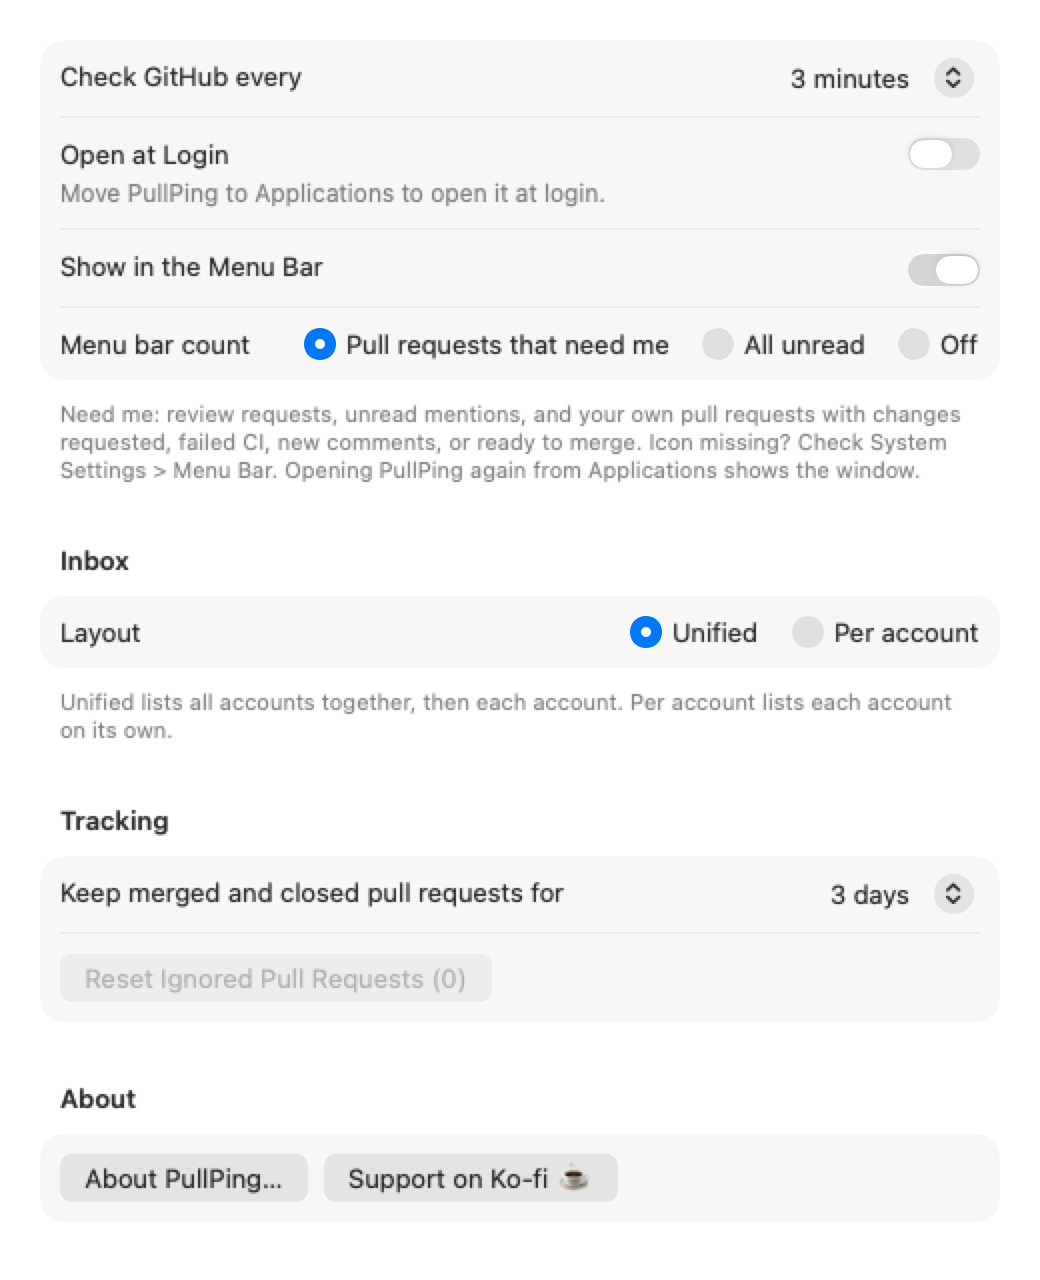
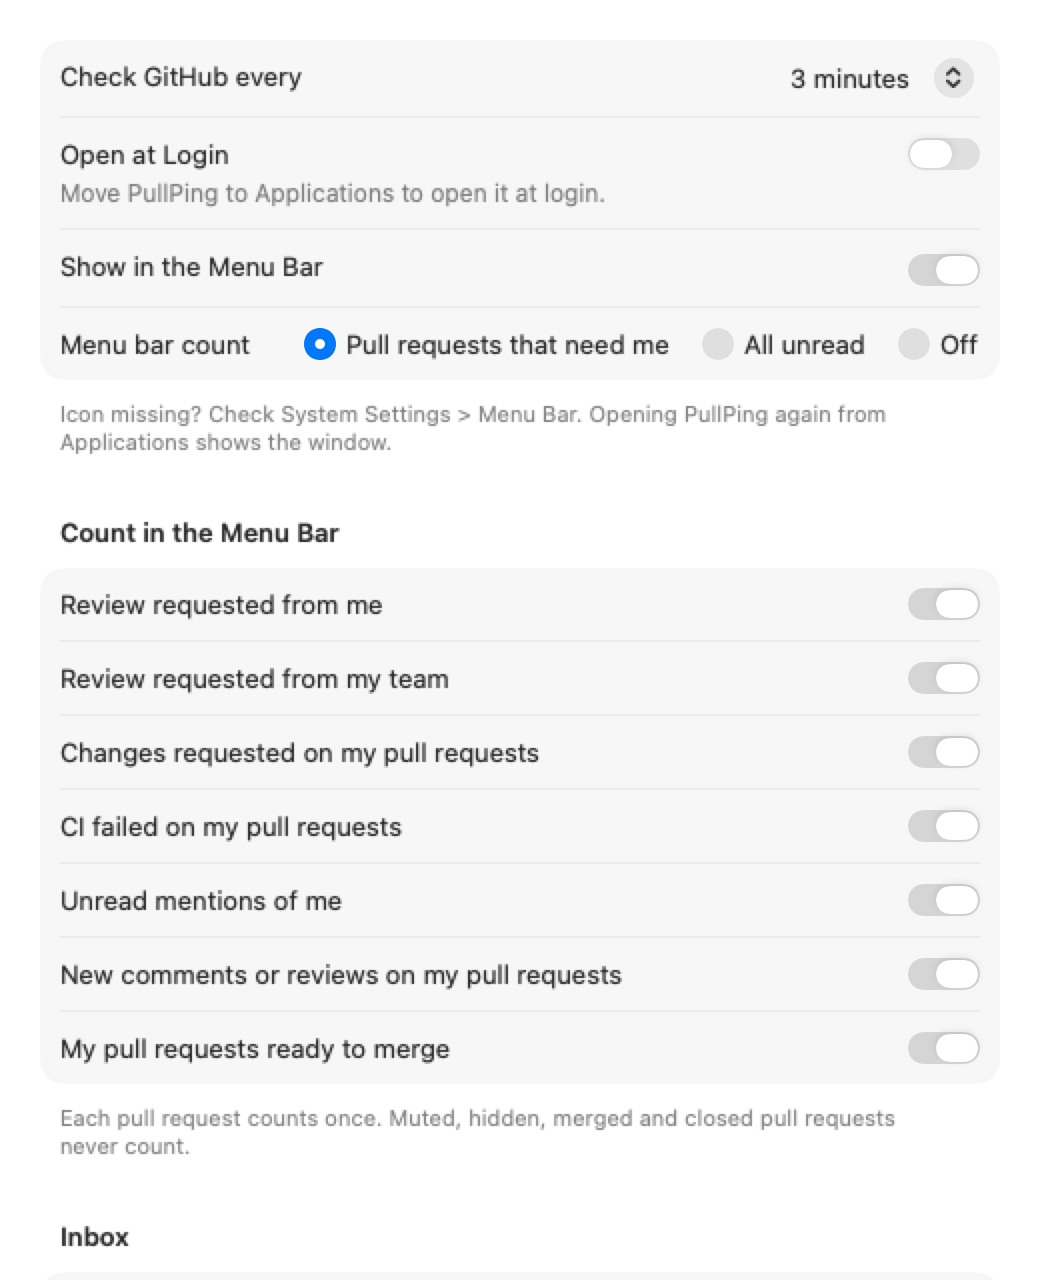
0.1.2: account names, menu-bar count settings, More menu, empty-window fix
- Account display names everywhere (switch, chips, panels, sidebar, phone)
- Settings > General > Count in the Menu Bar: a switch per reason; team review split out
- Panel menu button is More (ellipsis), same items as the right-click menu
- Fix: empty "PullPing Settings" window after closing Settings or reopening
- Fix: panel header overflow with long account names

Claude-Session: https://claude.ai/code/session_014uzkEWtF3b6UwepaCUwZvp

diff --git a/Sources/PullPingCore/Attention.swift b/Sources/PullPingCore/Attention.swift
@@ -4,9 +4,9 @@ import Foundation
 public enum PRGroup: String, Sendable, CaseIterable { case mine, toReview, involved }
 
 /// Why a pull request needs me, in breakdown order; the raw value is the breakdown wording.
-public enum NeedReason: String, Sendable, CaseIterable {
-    case toReview = "to review", changesRequested = "changes requested", ciFailed = "CI failed", mentioned
-    case newComments = "with new comments", readyToMerge = "ready to merge"
+public enum NeedReason: String, Codable, Sendable, CaseIterable {
+    case toReview = "to review", teamToReview = "team review", changesRequested = "changes requested", ciFailed = "CI failed"
+    case mentioned, newComments = "with new comments", readyToMerge = "ready to merge"
 }
 
 public enum Attention {
@@ -23,37 +23,44 @@ public enum Attention {
         !pr.muted && !pr.hidden && (unread(pr) > 0 || awaitingMyReview(pr))
     }
 
-    /// Open, shown, unmuted, and: my review is awaited, an unread mention, or I'm the author and it has changes requested,
-    /// failed CI, unread comments or reviews, or is ready to merge. The first match wins, so each counts once.
-    public static func needReason(_ pr: TrackedPR) -> NeedReason? {
+    /// Open, shown, unmuted, and: my review is awaited (directly or via a team), an unread mention, or I'm the author and it
+    /// has changes requested, failed CI, unread comments or reviews, or is ready to merge. Only reasons in `counting`
+    /// (Settings > General) apply; the first match wins, so each pull request counts once.
+    public static func needReason(_ pr: TrackedPR, counting: Set<NeedReason> = Set(NeedReason.allCases)) -> NeedReason? {
         guard pr.state == .open, !pr.muted, !pr.hidden else { return nil }
         let unread = pr.events.filter { !$0.isOwn && $0.at > (pr.lastReadAt ?? .distantPast) }
-        let mine = pr.roles.contains(.author)
-        if awaitingMyReview(pr) { return .toReview }
-        if mine && pr.reviewDecision == "CHANGES_REQUESTED" { return .changesRequested }
-        if mine && pr.ci == .failure { return .ciFailed }
-        if unread.contains(where: { $0.kind == .mentioned }) { return .mentioned }
+        let mine = pr.roles.contains(.author), reviewable = !pr.isDraft
         let talk: Set<EventKind> = [.comment, .reviewApproved, .reviewChangesRequested, .reviewCommented]
-        if mine && unread.contains(where: { talk.contains($0.kind) }) { return .newComments }
-        if mine && pr.reviewDecision == "APPROVED" && pr.ci == .success && pr.mergeState == "CLEAN" { return .readyToMerge }
-        return nil
+        let checks: [(NeedReason, Bool)] = [
+            (.toReview, reviewable && pr.roles.contains(.reviewRequested)),
+            (.teamToReview, reviewable && pr.roles.contains(.teamReviewRequested)),
+            (.changesRequested, mine && pr.reviewDecision == "CHANGES_REQUESTED"),
+            (.ciFailed, mine && pr.ci == .failure),
+            (.mentioned, unread.contains { $0.kind == .mentioned }),
+            (.newComments, mine && unread.contains { talk.contains($0.kind) }),
+            (.readyToMerge, mine && pr.reviewDecision == "APPROVED" && pr.ci == .success && pr.mergeState == "CLEAN"),
+        ]
+        return checks.first { counting.contains($0.0) && $0.1 }?.0
     }
 
-    public static func needsMe(_ pr: TrackedPR) -> Bool { needReason(pr) != nil }
+    public static func needsMe(_ pr: TrackedPR, counting: Set<NeedReason> = Set(NeedReason.allCases)) -> Bool {
+        needReason(pr, counting: counting) != nil
+    }
 
     /// "2 to review · 1 ready to merge"; empty when nothing needs me.
-    public static func breakdown(_ prs: [TrackedPR]) -> String {
-        let reasons = prs.compactMap(needReason)
+    public static func breakdown(_ prs: [TrackedPR], counting: Set<NeedReason> = Set(NeedReason.allCases)) -> String {
+        let reasons = prs.compactMap { needReason($0, counting: counting) }
         return NeedReason.allCases.compactMap { reason in
             let count = reasons.filter { $0 == reason }.count
             return count > 0 ? "\(count) \(reason.rawValue)" : nil
         }.joined(separator: " · ")
     }
 
-    public static func badgeCount(_ prs: [TrackedPR], enabledAccounts: Set<UUID>, mode: BadgeMode = .allUnread) -> Int {
+    public static func badgeCount(_ prs: [TrackedPR], enabledAccounts: Set<UUID>, mode: BadgeMode = .allUnread,
+                                  counting: Set<NeedReason> = Set(NeedReason.allCases)) -> Int {
         let prs = prs.filter { enabledAccounts.contains($0.accountID) }
         switch mode {
-        case .needsMe: return prs.filter(needsMe).count
+        case .needsMe: return prs.filter { needsMe($0, counting: counting) }.count
         case .allUnread: return prs.filter(isAttention).count
         case .off: return 0
         }

diff --git a/Sources/PullPing/StatusPanelView.swift b/Sources/PullPing/StatusPanelView.swift
@@ -55,12 +55,11 @@ struct StatusPanelView: View {
             }
             HStack(spacing: 8) {
                 if store.accounts.count > 1 {
-                    Picker("Account", selection: Binding(get: { scope.key }, set: { account = $0 })) {
-                        if store.settings.inboxLayout == .unified { Text(segment("All", .all)).tag("") }
-                        ForEach(store.accounts) { Text(segment("@\($0.login)", .account($0.id))).tag($0.id.uuidString) }
+                    // Segments while they fit the 380 pt panel; a menu once names get long (no header overflow).
+                    ViewThatFits(in: .horizontal) {
+                        scopePicker(scope).pickerStyle(.segmented)
+                        scopePicker(scope).pickerStyle(.menu).fixedSize()
                     }
-                    .pickerStyle(.segmented)
-                    .labelsHidden()
                 }
                 Spacer(minLength: 0)
                 Menu {  // a Menu, not a menu Picker: that one is as wide as its longest item
@@ -80,7 +79,15 @@ struct StatusPanelView: View {
         .padding(12)
     }
 
-    /// "@dana 2": the count uses the menu-bar measure.
+    private func scopePicker(_ scope: Scope) -> some View {
+        Picker("Account", selection: Binding(get: { scope.key }, set: { account = $0 })) {
+            if store.settings.inboxLayout == .unified { Text(segment("All", .all)).tag("") }
+            ForEach(store.accounts) { Text(segment($0.displayName, .account($0.id))).tag($0.id.uuidString) }
+        }
+        .labelsHidden()
+    }
+
+    /// "Work 2": the count uses the menu-bar measure.
     private func segment(_ name: String, _ scope: Scope) -> String {
         let count = store.count(scope)
         return count > 0 ? "\(name) \(count)" : name
@@ -97,18 +104,30 @@ struct StatusPanelView: View {
             Button("Mark All as Read") { store.markAllRead() }
             Button("Dismiss All Notifications") { NotificationPanels.shared.dismissAll() }
             Divider()
+            // Same items as the right-click menu (StatusItem), so both menus match.
+            Menu("Pause Notifications") {
+                ForEach([("1 Hour", Snooze.hour1), ("3 Hours", .hours3), ("Until Tomorrow 9:00", .tomorrow)], id: \.0) { title, option in
+                    Button(title) { store.pause(until: option.until(from: Date())) }
+                }
+                Divider()
+                Button("Resume") { store.pause(until: nil) }.disabled(!store.settings.isPaused(Date()))
+            }
+            if store.settings.isPaused(Date()), let until = store.settings.pausedUntil {
+                Text("Paused until \(until.formatted(date: .omitted, time: .shortened))")
+            }
+            Divider()
             Button("Settings…") { SettingsWindow.shared.show() }.keyboardShortcut(",")
             Button("About PullPing") { AboutWindow.show() }
             Button("Support on Ko-fi ☕") { NSWorkspace.shared.open(AboutInfo.kofi) }
             Divider()
             Button("Quit PullPing") { NSApp.terminate(nil) }.keyboardShortcut("q")
         } label: {
-            Label("More", systemImage: "gearshape").labelStyle(.iconOnly)
+            Label("More", systemImage: "ellipsis.circle").labelStyle(.iconOnly)  // a menu, not Settings: no gear (SYM-2)
         }
         .menuStyle(.borderlessButton)
         .menuIndicator(.hidden)
         .fixedSize()
-        .help("Settings, About and Quit")
+        .help("More: Open Window, Pause Notifications, Settings, Quit")
     }
 
     @ViewBuilder private func content(_ scope: Scope) -> some View {

diff --git a/Sources/PullPing/Store.swift b/Sources/PullPing/Store.swift
@@ -210,9 +210,9 @@ final class Store {
     }
 
     /// The menu-bar number (Settings > General > Menu bar count).
-    var badgeCount: Int { Attention.badgeCount(Array(tracked.prs.values), enabledAccounts: enabledIDs, mode: settings.badgeMode) }
+    var badgeCount: Int { Attention.badgeCount(Array(tracked.prs.values), enabledAccounts: enabledIDs, mode: settings.badgeMode, counting: settings.badgeReasons) }
     /// "2 to review · 1 ready to merge": status panel header and the status item's label.
-    var breakdown: String { Attention.breakdown(prs) }
+    var breakdown: String { Attention.breakdown(prs, counting: settings.badgeReasons) }
     var isPaused: Bool { settings.isPaused(now) }
 
     func prs(_ scope: Scope, _ filter: Filter) -> [TrackedPR] { prs.filter { scope.matches($0) && filter.matches($0) } }
@@ -221,7 +221,7 @@ final class Store {
     func count(_ scope: Scope, _ filter: Filter = .all) -> Int {
         let enabled = enabledIDs, needsMe = settings.badgeMode == .needsMe
         return tracked.prs.values.filter {
-            enabled.contains($0.accountID) && scope.matches($0) && filter.matches($0) && (needsMe ? Attention.needsMe($0) : Attention.isAttention($0))
+            enabled.contains($0.accountID) && scope.matches($0) && filter.matches($0) && (needsMe ? Attention.needsMe($0, counting: settings.badgeReasons) : Attention.isAttention($0))
         }.count
     }
 
@@ -248,7 +248,7 @@ final class Store {
     var firstSync: [Account] { accounts.filter { $0.enabled && tracked.lastPollAt[$0.id] == nil } }
 
     func account(_ id: UUID) -> Account? { accounts.first { $0.id == id } }
-    func login(for pr: TrackedPR) -> String? { multiAccount ? account(pr.accountID).map { "@\($0.login)" } : nil }
+    func login(for pr: TrackedPR) -> String? { multiAccount ? account(pr.accountID).map(\.displayName) : nil }
 
     /// Status item accessibility label and tooltip (MBX-6): what the count means, and Pause.
     var menuBarLabel: String {
@@ -338,7 +338,8 @@ final class Store {
             guard let pr = tracked.prs[event.prID], enabledIDs.contains(pr.accountID), settings.pushesToPhone(event, pr: pr, now: now) else { continue }
             let message = Ntfy.Message(
                 title: "\(event.kind.label): \(pr.repo) #\(pr.number)",
-                body: pr.title + "\n" + (event.summary.isEmpty ? event.line : "\(event.actor): \(event.summary)"),
+                body: pr.title + "\n" + (event.summary.isEmpty ? event.line : "\(event.actor): \(event.summary)")
+                    + (login(for: pr).map { "\nAccount: \($0)" } ?? ""),
                 priority: settings.style(for: event.kind, mine: pr.roles.contains(.author)) == .alert ? 4 : 3,
                 tags: [event.kind.rawValue], click: pr.url, flow: "pr-event")
             Task { _ = await Ntfy.send(message, config: config, transport: URLSessionTransport()) }

diff --git a/Sources/PullPing/SettingsViews.swift b/Sources/PullPing/SettingsViews.swift
@@ -40,7 +40,7 @@ struct AccountsTab: View {
         }
         .formStyle(.grouped)
         .sheet(isPresented: $adding) { AddAccountSheet(store: store) }
-        .confirmationDialog(removing.map { "Remove @\($0.login)?" } ?? "", isPresented: Binding(get: { removing != nil }, set: { if !$0 { removing = nil } })) {
+        .confirmationDialog(removing.map { "Remove \($0.displayName)?" } ?? "", isPresented: Binding(get: { removing != nil }, set: { if !$0 { removing = nil } })) {
             Button("Remove", role: .destructive) { if let removing { store.removeAccount(removing.id) } }
             Button("Cancel", role: .cancel) {}
         } message: {
@@ -401,7 +401,22 @@ struct GeneralTab: View {
                 }
                 .pickerStyle(.radioGroup)
             } footer: {
-                Text("Need me: review requests, unread mentions, and your own pull requests with changes requested, failed CI, new comments, or ready to merge. Icon missing? Check System Settings > Menu Bar. Opening PullPing again from Applications shows the window.").formFooter()
+                Text("Icon missing? Check System Settings > Menu Bar. Opening PullPing again from Applications shows the window.").formFooter()
+            }
+            if store.settings.badgeMode == .needsMe {
+                Section {
+                    ForEach(NeedReason.allCases, id: \.self) { reason in
+                        Toggle(reason.settingsLabel, isOn: Binding(
+                            get: { store.settings.badgeReasons.contains(reason) },
+                            set: { on in
+                                if on { store.settings.badgeReasons.insert(reason) } else { store.settings.badgeReasons.remove(reason) }
+                            }))
+                    }
+                } header: {
+                    Text("Count in the Menu Bar")
+                } footer: {
+                    Text("Each pull request counts once. Muted, hidden, merged and closed pull requests never count.").formFooter()
+                }
             }
             Section {
                 Picker("Layout", selection: $store.settings.inboxLayout) {
@@ -430,5 +445,20 @@ struct GeneralTab: View {
             }
         }
         .formStyle(.grouped)
+    }
+}
+
+extension NeedReason {
+    /// Settings > General > Count in the Menu Bar.
+    var settingsLabel: String {
+        switch self {
+        case .toReview: "Review requested from me"
+        case .teamToReview: "Review requested from my team"
+        case .changesRequested: "Changes requested on my pull requests"
+        case .ciFailed: "CI failed on my pull requests"
+        case .mentioned: "Unread mentions of me"
+        case .newComments: "New comments or reviews on my pull requests"
+        case .readyToMerge: "My pull requests ready to merge"
+        }
     }
 }

diff --git a/Sources/PullPing/MainView.swift b/Sources/PullPing/MainView.swift
@@ -64,7 +64,7 @@ struct SidebarView: View {
     private func header(_ account: Account) -> some View {
         HStack(spacing: 6) {
             Avatar(url: account.avatarURL)
-            Text(verbatim: "@\(account.login)")
+            Text(verbatim: account.displayName)
             Spacer(minLength: 0)
             if let status = store.statuses[account.id], status.isError {
                 Image(systemName: "exclamationmark.triangle").foregroundStyle(Theme.bad)
@@ -154,7 +154,7 @@ struct AccountErrorRow: View {
     var body: some View {
         HStack {
             Label {
-                Text(verbatim: "@\(account.login): \(status.word)").lineLimit(2)
+                Text(verbatim: "\(account.displayName): \(status.word)").lineLimit(2)
             } icon: {
                 Image(systemName: "exclamationmark.triangle.fill").foregroundStyle(Theme.bad)
             }
@@ -180,7 +180,7 @@ struct EmptyState: View {
                 Button("Add Account…") { SettingsWindow.shared.show(tab: "Accounts") }
             }
         } else if let first = store.firstSync.first {
-            ProgressView { Text(verbatim: "Syncing @\(first.login)…") }
+            ProgressView { Text(verbatim: "Syncing \(first.displayName)…") }
         } else if filter == .all || filter == .inbox {
             ContentUnavailableView("No Pull Requests", systemImage: "arrow.triangle.pull",
                                    description: Text("Pull requests you open, review or comment on appear here."))

diff --git a/Tests/PullPingCoreTests/AttentionTests.swift b/Tests/PullPingCoreTests/AttentionTests.swift
@@ -55,6 +55,8 @@ final class AttentionTests: XCTestCase {
     func testNeedsMeAndBreakdown() {
         var review = pr("R", roles: [.reviewRequested])
         XCTAssertEqual(Attention.needReason(review), .toReview)
+        XCTAssertNil(Attention.needReason(review, counting: [.ciFailed]))  // reason switched off in Settings
+        XCTAssertEqual(Attention.needReason(pr("T", roles: [.teamReviewRequested])), .teamToReview)
         review.isDraft = true
         XCTAssertNil(Attention.needReason(review))
 
@@ -89,10 +91,10 @@ final class AttentionTests: XCTestCase {
         hidden.hidden = true
         muted.muted = true
         merged.state = .merged
-        XCTAssertFalse([hidden, muted, merged].contains(where: Attention.needsMe))
+        XCTAssertFalse([hidden, muted, merged].contains { Attention.needsMe($0) })
 
         let review2 = pr("R2", roles: [.teamReviewRequested])
-        XCTAssertEqual(Attention.breakdown([pr("R", roles: [.reviewRequested]), review2, changes, ready, hidden]), "2 to review · 1 changes requested")
+        XCTAssertEqual(Attention.breakdown([pr("R", roles: [.reviewRequested]), review2, changes, ready, hidden]), "1 to review · 1 team review · 1 changes requested")
         XCTAssertEqual(Attention.breakdown([]), "")
     }
 

diff --git a/Sources/PullPing/PullPingApp.swift b/Sources/PullPing/PullPingApp.swift
@@ -20,8 +20,9 @@ struct PullPingApp: App {
     }
 
     var body: some Scene {
-        // The status item is AppKit (`StatusItem`); this never-opened scene only carries the main menu commands.
-        Settings { EmptyView() }
+        // The status item is AppKit (`StatusItem`); this never-inserted scene only carries the main menu commands.
+        // Not a `Settings` scene: SwiftUI opens that one as an empty "PullPing Settings" window on reopen.
+        MenuBarExtra("PullPing", isInserted: .constant(false)) { EmptyView() }
             .commands { AppCommands(store: store) }
     }
 }
@@ -63,7 +64,7 @@ final class AppDelegate: NSObject, NSApplicationDelegate {
     /// Opening PullPing again (Finder, Raycast) shows the main window: the way in when the icon is hidden (MBX-8).
     @MainActor func applicationShouldHandleReopen(_ sender: NSApplication, hasVisibleWindows flag: Bool) -> Bool {
         if !flag { MainWindow.shared.show() }
-        return true
+        return false  // handled; `true` lets SwiftUI open a window of its own
     }
 
     @MainActor func applicationWillTerminate(_ notification: Notification) {

diff --git a/Sources/PullPingCore/Settings.swift b/Sources/PullPingCore/Settings.swift
@@ -36,6 +36,8 @@ public struct AppSettings: Codable, Sendable, Equatable {
     public var otherStyles = AppSettings.defaultOtherStyles
     public var inboxLayout = InboxLayout.unified
     public var badgeMode = BadgeMode.needsMe
+    /// What "Pull requests that need me" counts (Settings > General); all reasons by default.
+    public var badgeReasons = Set(NeedReason.allCases)
     /// Panels, phone pushes and reminders stay quiet until then.
     public var pausedUntil: Date?
     /// ntfy server and topic; the access token and the fallback topic URL live in the keychain.
@@ -63,6 +65,7 @@ public struct AppSettings: Codable, Sendable, Equatable {
         otherStyles = try value(.otherStyles, otherStyles)
         inboxLayout = try value(.inboxLayout, inboxLayout)
         badgeMode = try value(.badgeMode, badgeMode)
+        badgeReasons = try value(.badgeReasons, badgeReasons)
         pausedUntil = try c.decodeIfPresent(Date.self, forKey: .pausedUntil)
         ntfyServer = try value(.ntfyServer, ntfyServer)
         ntfyTopic = try value(.ntfyTopic, ntfyTopic)

diff --git a/Sources/PullPingCore/Models.swift b/Sources/PullPingCore/Models.swift
@@ -20,6 +20,9 @@ public struct Account: Identifiable, Codable, Sendable, Equatable {
         self.authKind = authKind
         self.tokenService = Keychain.service(for: id)
     }
+
+    /// The name the user gave the account in Settings, else `@login`.
+    public var displayName: String { label.trimmingCharacters(in: .whitespaces).isEmpty ? "@\(login)" : label }
 }
 
 /// Also the error type thrown by `GitHubClient`.

diff --git a/README.md b/README.md
@@ -40,7 +40,7 @@ brew install --cask roypadina/tap/pullping
 - **Every pull request you are involved in, in one place.** Ones you opened, ones assigned to you, ones where your review is requested (directly or through a team), and ones where you commented, reviewed or were mentioned. Merged and closed ones stay listed for a few days.
 - **Several GitHub accounts at once.** Personal and work, each with its own token and a label you choose.
 - **Menu-bar panel.** Your pull requests in three groups (Mine, To Review, Involved), with CI status, review state, an unread dot and the latest activity on each row. Switch between All accounts and each account, and filter (Inbox, All, Mine, To Review, Involved, Recently Closed, Muted, Hidden). Right-click the icon for Refresh, Mark All as Read, Pause Notifications, Settings and Quit.
-- **A count that means something.** By default the menu-bar number counts only pull requests that need you: review requests, unread mentions, and your own pull requests with changes requested, failed CI, new comments, or ready to merge. The panel header spells it out ("2 to review · 1 ready to merge"). Or count everything unread, or show no number.
+- **A count that means something.** By default the menu-bar number counts only pull requests that need you: review requests, unread mentions, and your own pull requests with changes requested, failed CI, new comments, or ready to merge. The panel header spells it out ("2 to review · 1 ready to merge"). Settings → General → Count in the Menu Bar picks which of these count (team review requests have their own switch), or count everything unread, or show no number.
 - **Main window.** Mail-style sidebar: the same filters for All Accounts and for each account, with counts, then search and a detail view with reviewers, checks and the recent activity of the selected pull request. Prefer one inbox per account? Settings → General → Inbox → Per account.
 - **Phone notifications** through [ntfy](https://ntfy.sh), chosen per kind of event, separately from the desktop panels.
 - **Notifications that stay out of your way.** A small panel appears at the top right, never takes keyboard focus, and is grouped per pull request. Pick Off, Banner (hides itself) or Alert (stays) for each kind of event.
@@ -94,7 +94,7 @@ open dist/PullPing.app
    [Accounts and tokens](#accounts-and-tokens).
 3. Click the menu-bar icon. **↩** opens the selected pull request in your browser, **⌘↩** opens it in the
    main window, **Esc** closes the panel. Right-click a row for Open in Browser, Mark as Read,
-   Mute, Hide, Snooze and Stop Tracking. Right-click the menu-bar icon for its menu (Pause Notifications included).
+   Mute, Hide, Snooze and Stop Tracking. Right-click the menu-bar icon, or click **⋯** in the panel, for the same menu (Pause Notifications included).
 4. The first sync of an account is silent: PullPing learns what already exists, and only tells
    you about what happens afterwards (plus review requests, assignments and mentions it finds).
 

diff --git a/CHANGELOG.md b/CHANGELOG.md
@@ -7,6 +7,19 @@ and this project adheres to [Semantic Versioning](https://semver.org/spec/v2.0.0
 
 ## [Unreleased]
 
+## [0.1.2] - 2026-10-30
+
+### Added
+- Settings → General → Count in the Menu Bar: choose which reasons count toward the menu-bar number. Review requests from your team now have their own switch and their own line in the panel header.
+
+### Changed
+- Account names you set in Settings now show everywhere: the panel's account switch, row chips, notification panels, the main window sidebar, error lines and phone notifications ("Account: …").
+- The panel's menu button is now ⋯ (More) instead of a gear, with the same items as the right-click menu, including Pause Notifications.
+
+### Fixed
+- An empty "PullPing Settings" window could appear after closing Settings or reopening PullPing.
+- The panel header no longer overflows and clips with long account names; the account switch becomes a menu when it doesn't fit.
+
 ## [0.1.1] - 2026-10-30
 
 ### Added
